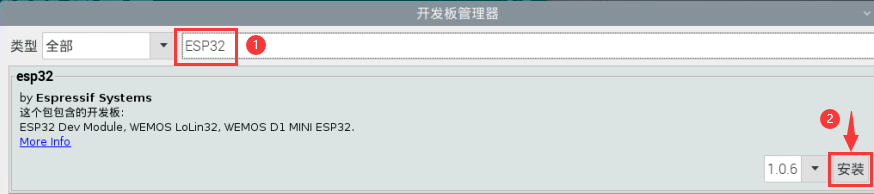
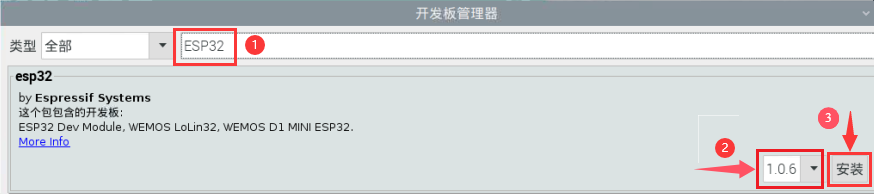
2024-11-06 13:12:14.59

diff --git a/docs/主板介绍/主板介绍.md b/docs/主板介绍/主板介绍.md
@@ -73,6 +73,71 @@ ESP-WROOM-32模块是业内集成度领先的 WiFi + 蓝牙解决方案，外部
 
 
 
+# 常见问题解答
+
+1\. 问：esp32 主板烧录程序出错。
+
+答：请检查 esp32 主板的型号是否选对。
+
+请检查USB串口端口号是否选对。
+
+2\. 问：esp32 主板使用USB线连接到计算机，串口端口未显示。
+
+答：请检查 esp32 是否与计算机连接完好，再点击“设备管理器”，查看是否显示对应的串口端口。如果显示正确，说明连接完好，如果还是没有显示，那有可能是 esp32 主控板上的USB芯片出问题了。
+
+3\. 问：烧录了代码，传感器/模块不工作或串口监视器窗口不能显示正确的信息？
+
+答：请确认代码中的引脚和实际接线是否一致，如有错误，请正确按照代码中的引脚进行接线即可。
+
+4\. 问：舵机为什么工作不正常？
+
+答：可能电压不够，最好外接电源供电。
+
+5\. 问：超声波传感器检测时，为什么检测距离不准？
+
+答：应从超声波传感器的发射头处开始测量，此模块非高精度超声波距离检测模块，会有误差。
+
+6\. 问：风扇（电机）工作不正常，主板很容易被烧坏？
+
+答：由于风扇在转动时，所需的电流比其他传感器要大，会引起电路中电压电流波动，特别是风扇进行正反转时，电压电流波动过大，导致 esp32 主板的电压电流过低，会导致复位。需要外接电源给 esp32 主板供电，这样保证风扇能正常工作。
+
+7\. 问：无源蜂鸣器的音调与实际音调不准？
+
+答：普通无源蜂鸣器模拟的音调，达不到专业音调的要求，如需非常准确音调，需要更专业的无源蜂鸣器。
+
+8\. 问：人体红外热释电传感器误报？
+
+答：人体红外热释电传感器避免误报警要求如下：
+
+探测范围内避开被风吹而引起飘动的物体，如：窗帘、衣物、花草等。
+
+探测范围内避免强光照射干扰，如：阳光照射、汽车灯光照射、射灯照射及照明等光源。
+
+9\. 问：温湿度传感器防水吗？
+
+答：温湿度传感器检测的是空气中的温度和湿度，不防水，请勿将模块放入水中。
+
+10\. 按红外遥控，红外接收器有反应，但无法控制产品运行。
+
+答：红外遥控器按键都有自己对应的键码，按下与代码不匹配的键码无法对产品进行操作；其次，按键按一下就松开，不要一直按，否则输出键码与原键码不同。
+
+11\. RFID模块读卡没反应？
+
+答：关于产品RFID的实验，注意是否代码中输入了所读卡的编码，基本每张卡的编码都会有所不同，需要通过代码确定编码。
+
+卡编码的读取方法：上传RFID的代码，打开串口监视器即可看见卡号编码。
+
+12\. 安装软件后无法使用？
+
+答：为确保产品各部分的正常运行，建议选择与资料一致的软件及版本进行安装，使用最新版本可能存在与库文件等不兼容的情况导致产品无法正常使用。
+
+13\. 能否把所有代码一起烧录进去？
+
+答：不能；开发板一次只支持烧录一个代码，当烧录进一个代码时之前所有的代码都会覆盖掉，没办法将所有代码烧录进去再选择代码使用；如果需要多种传感器同时工作，可以将相关传感器写在一个代码里面。
+
+14\. 问：WiFi一直连接不上？
+
+答：请将 esp32 主板移动到路由器周边，按下主板上的复位键重启 esp32 主板，耐心等待连接即可。若还是一直连接不上，请查看WiFi名称和密码是否填写正确。
 
 
 

diff --git a/docs/Arduino C 教程 Windows 系统.md b/docs/Arduino C 教程 Windows 系统.md
@@ -152,7 +152,7 @@
 
 ![图片不存在](./Arduino/media/11dd827f1f17588419bf7be03a47211d.png)
 
-（6）先点击“**工具**”→“**开发版:**”，，再点击“**开发版管理器...**”进入“**开发版管理器**”页面，在文本框中输入“**esp32**”，选择最新版本进行安装，安装包不大，点击“**安装**”开始安装相关安装包。如下图。
+（6）先点击“**工具**”→“**开发版:**”，，再点击“**开发版管理器...**”进入“**开发版管理器**”页面，在文本框中输入“**esp32**”，选择 <span style="color: rgb(255, 76, 65);">1.06</span> 版本进行安装，安装包不大，点击“**安装**”开始安装相关安装包。如下图：**<span style="color: rgb(255, 76, 0);">（特别提醒：选择更高版本或最新版本，可能会出现安装失败。）</span>**
 
 
 ![图片不存在](./Arduino/media/486d22dca3d5007c0866fe0dd4b3075e.png)
@@ -272,7 +272,7 @@
 
 ![图片不存在](./Arduino/media/f88fa3fc64d0e88254ed1f1960ff20cf.png)
 
-（5）先点击“**工具**”→“**开发版:**”，，再点击“**开发版管理器...**”进入“**开发版管理器**”页面，在文本框中输入“**esp32**”，选择最新版本进行安装，安装包不大，点击“**安装**”开始安装相关安装包。如下图。
+（5）先点击“**工具**”→“**开发版:**”，，再点击“**开发版管理器...**”进入“**开发版管理器**”页面，在文本框中输入“**esp32**”，选择 <span style="color: rgb(255, 76, 65);">1.06</span> 版本进行安装，安装包不大，点击“**安装**”开始安装相关安装包。如下图：**<span style="color: rgb(255, 76, 0);">（特别提醒：选择更高版本或最新版本，可能会出现安装失败。）</span>**
 
 ![图片不存在](./Arduino/media/b190d9a92887ff3f38fd00f9ef6a7bc6.png)
 

diff --git a/docs/Arduino C 教程 树莓派 系统.md b/docs/Arduino C 教程 树莓派 系统.md
@@ -512,7 +512,7 @@ ESP32的安装过程与ESP8266的安装几乎相同。要在Arduino IDE上安装
 
 ![图片不存在](./Arduino/media/c626a92d2d4908e2f7289f7946da3227.png)
 
-（6）先点击“**工具**”→“**开发版:**”，，再点击“**开发板管理器...**”进入“**开发版管理器**”页面，在文本框中输入“**ESP32**”，选择最新版本进行安装，安装包不大，点击“**安装**”开始安装相关安装包。如下图。
+（6）先点击“**工具**”→“**开发版:**”，，再点击“**开发板管理器...**”进入“**开发版管理器**”页面，在文本框中输入“**ESP32**”，选择 <span style="color: rgb(255, 76, 65);">1.06</span> 版本进行安装，安装包不大，点击“**安装**”开始安装相关安装包。如下图：**<span style="color: rgb(255, 76, 0);">（特别提醒：选择更高版本或最新版本，可能会出现安装失败。）</span>**
 
 ![图片不存在](./Arduino/media/4045352cb8abe6994c61fb2019c37a14.png)
 
